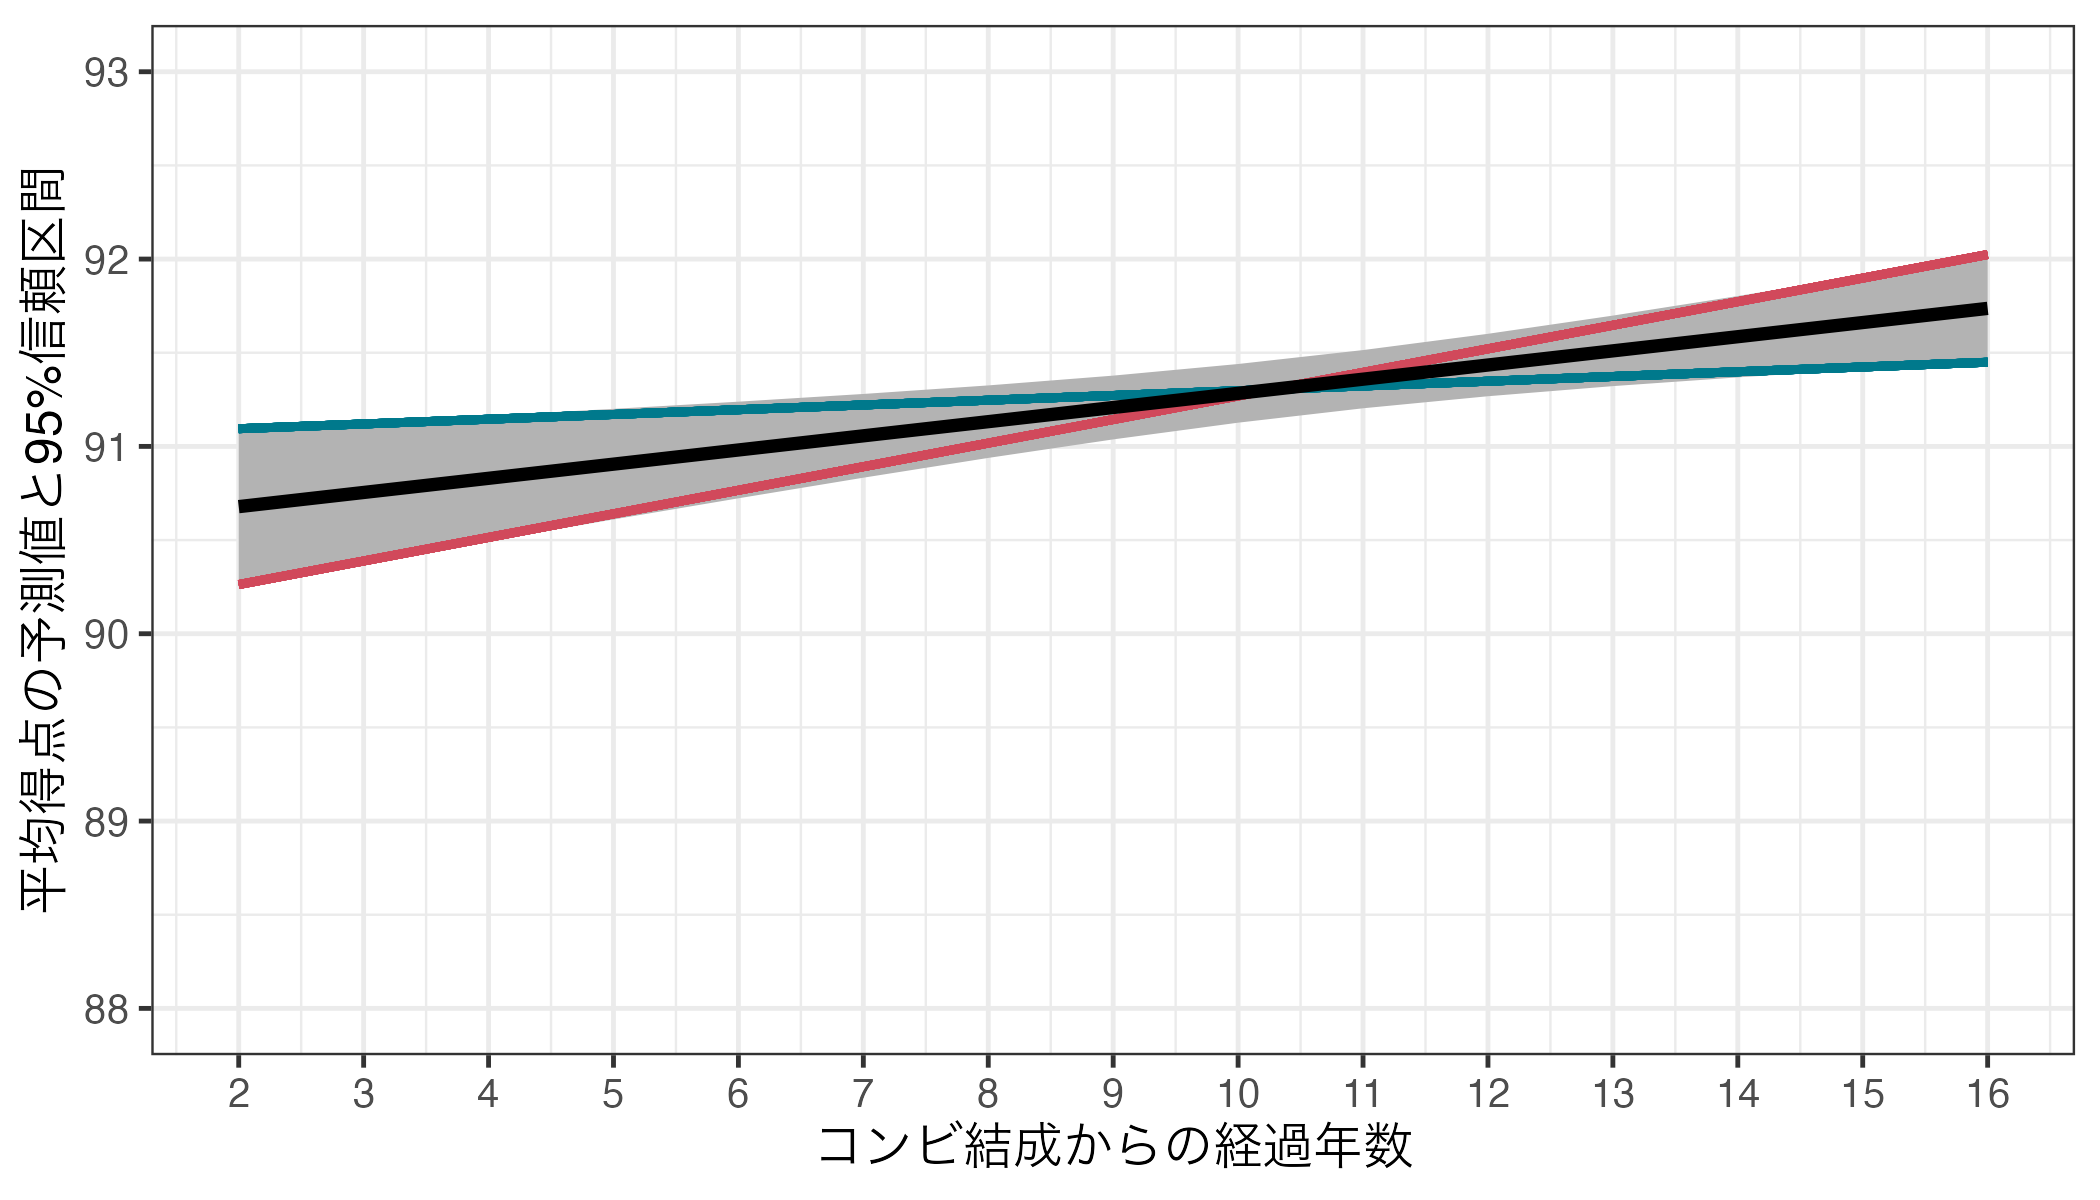
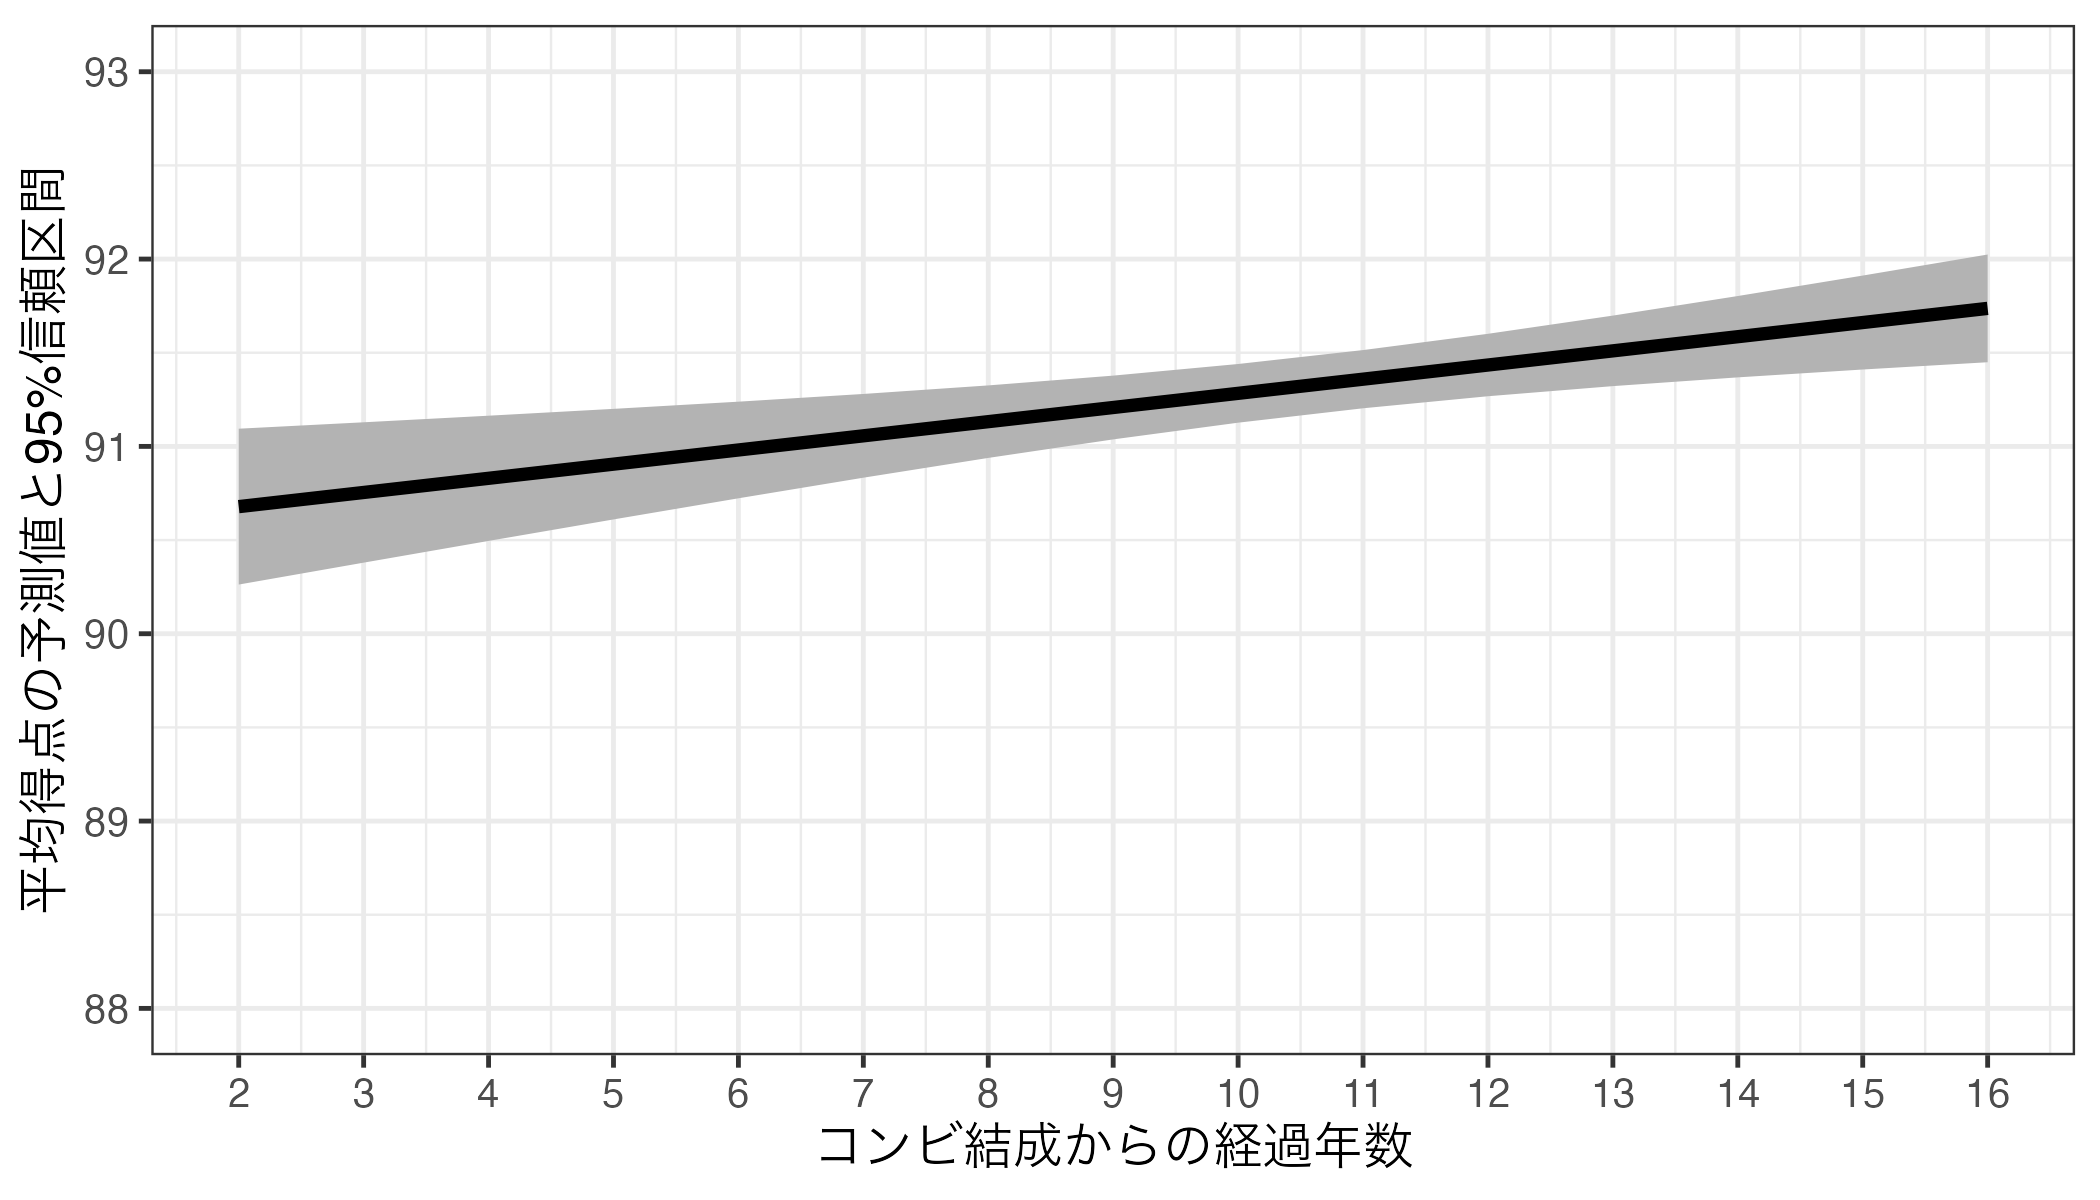
no message

diff --git a/docs/materials/macro/reporting.html b/docs/materials/macro/reporting.html
@@ -1821,15 +1821,11 @@ Type:  response </code></pre>
 <span id="cb38-2"><a href="#cb38-2"></a>            <span class="at">conf_level =</span> <span class="fl">0.4</span>) <span class="sc">|&gt;</span></span>
 <span id="cb38-3"><a href="#cb38-3"></a>  <span class="fu">ggplot</span>(<span class="fu">aes</span>(<span class="at">x =</span> Duration)) <span class="sc">+</span> </span>
 <span id="cb38-4"><a href="#cb38-4"></a>  <span class="fu">geom_ribbon</span>(<span class="fu">aes</span>(<span class="at">ymin =</span> conf.low, <span class="at">ymax =</span> conf.high), <span class="at">fill =</span> <span class="st">"gray70"</span>) <span class="sc">+</span></span>
-<span id="cb38-5"><a href="#cb38-5"></a>  <span class="fu">geom_segment</span>(<span class="fu">aes</span>(<span class="at">x =</span> <span class="dv">2</span>, <span class="at">xend =</span> <span class="dv">16</span>, <span class="at">y =</span> <span class="fl">91.09444</span>, <span class="at">yend =</span> <span class="fl">91.44930</span>),</span>
-<span id="cb38-6"><a href="#cb38-6"></a>               <span class="at">linewidth =</span> <span class="dv">1</span>, <span class="at">color =</span> <span class="st">"#00798C"</span>) <span class="sc">+</span></span>
-<span id="cb38-7"><a href="#cb38-7"></a>  <span class="fu">geom_segment</span>(<span class="fu">aes</span>(<span class="at">x =</span> <span class="dv">2</span>, <span class="at">xend =</span> <span class="dv">16</span>, <span class="at">y =</span> <span class="fl">90.26250</span>, <span class="at">yend =</span> <span class="fl">92.02425</span>),</span>
-<span id="cb38-8"><a href="#cb38-8"></a>               <span class="at">linewidth =</span> <span class="dv">1</span>, <span class="at">color =</span> <span class="st">"#D1495B"</span>) <span class="sc">+</span></span>
-<span id="cb38-9"><a href="#cb38-9"></a>  <span class="fu">geom_line</span>(<span class="fu">aes</span>(<span class="at">y =</span> estimate), <span class="at">linewidth =</span> <span class="fl">1.5</span>) <span class="sc">+</span></span>
-<span id="cb38-10"><a href="#cb38-10"></a>  <span class="fu">scale_x_continuous</span>(<span class="at">breaks =</span> <span class="dv">2</span><span class="sc">:</span><span class="dv">16</span>, <span class="at">labels =</span> <span class="dv">2</span><span class="sc">:</span><span class="dv">16</span>) <span class="sc">+</span></span>
-<span id="cb38-11"><a href="#cb38-11"></a>  <span class="fu">labs</span>(<span class="at">x =</span> <span class="st">"コンビ結成からの経過年数"</span>, <span class="at">y =</span> <span class="st">"平均得点の予測値と95%信頼区間"</span>) <span class="sc">+</span></span>
-<span id="cb38-12"><a href="#cb38-12"></a>  <span class="fu">coord_cartesian</span>(<span class="at">ylim =</span> <span class="fu">c</span>(<span class="dv">88</span>, <span class="dv">93</span>)) <span class="sc">+</span></span>
-<span id="cb38-13"><a href="#cb38-13"></a>  <span class="fu">theme_bw</span>(<span class="at">base_size =</span> <span class="dv">12</span>)</span></code><button title="コピーする" class="code-copy-button"><i class="bi"></i></button></pre></div>
+<span id="cb38-5"><a href="#cb38-5"></a>  <span class="fu">geom_line</span>(<span class="fu">aes</span>(<span class="at">y =</span> estimate), <span class="at">linewidth =</span> <span class="fl">1.5</span>) <span class="sc">+</span></span>
+<span id="cb38-6"><a href="#cb38-6"></a>  <span class="fu">scale_x_continuous</span>(<span class="at">breaks =</span> <span class="dv">2</span><span class="sc">:</span><span class="dv">16</span>, <span class="at">labels =</span> <span class="dv">2</span><span class="sc">:</span><span class="dv">16</span>) <span class="sc">+</span></span>
+<span id="cb38-7"><a href="#cb38-7"></a>  <span class="fu">labs</span>(<span class="at">x =</span> <span class="st">"コンビ結成からの経過年数"</span>, <span class="at">y =</span> <span class="st">"平均得点の予測値と95%信頼区間"</span>) <span class="sc">+</span></span>
+<span id="cb38-8"><a href="#cb38-8"></a>  <span class="fu">coord_cartesian</span>(<span class="at">ylim =</span> <span class="fu">c</span>(<span class="dv">88</span>, <span class="dv">93</span>)) <span class="sc">+</span></span>
+<span id="cb38-9"><a href="#cb38-9"></a>  <span class="fu">theme_bw</span>(<span class="at">base_size =</span> <span class="dv">12</span>)</span></code><button title="コピーする" class="code-copy-button"><i class="bi"></i></button></pre></div>
 </div>
 <div class="cell-output-display">
 <div class="quarto-figure quarto-figure-center">
